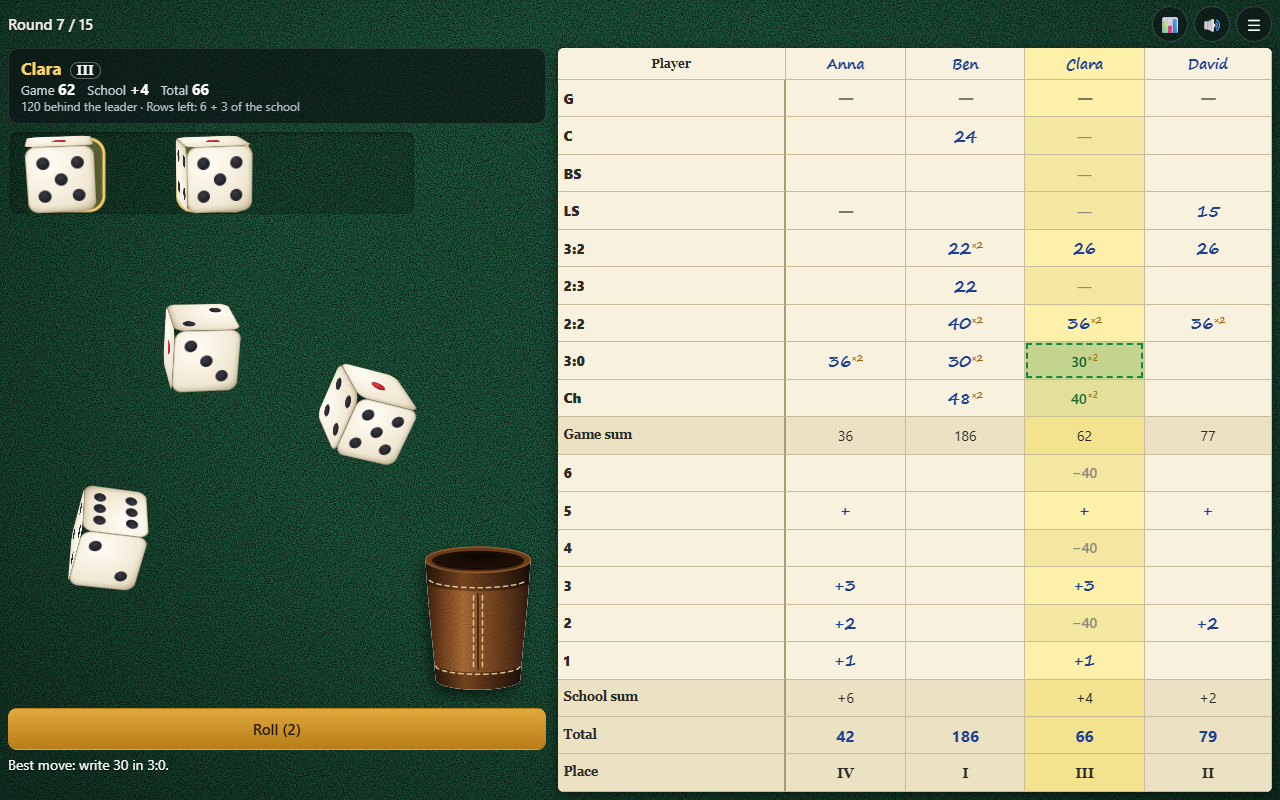
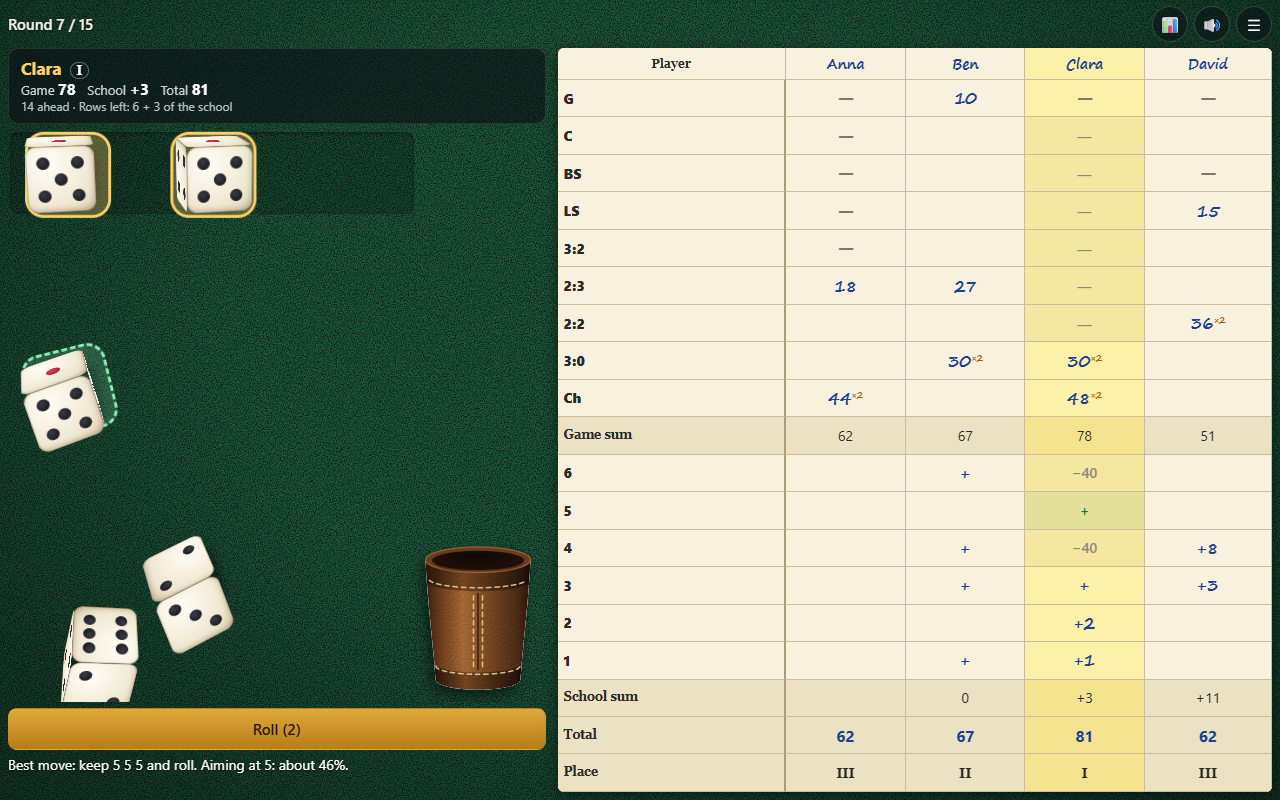
Yacht: the plate under a held die is wide enough to be seen all round it on a big screen

diff --git a/yacht/index.html b/yacht/index.html
@@ -12,7 +12,7 @@
 <link rel="manifest" href="manifest.webmanifest?v=1">
 <link rel="apple-touch-icon" href="apple-touch-icon.png?v=1">
 <meta name="theme-color" content="#1f5b3f">
-<link rel="stylesheet" href="styles.css?v=1">
+<link rel="stylesheet" href="styles.css?v=2">
 </head>
 <body>
 

diff --git a/yacht/styles.css b/yacht/styles.css
@@ -231,7 +231,7 @@ body[data-tex="marble"] {
 .die.held::before, .die.hintKeep::before {
   content: '';
   position: absolute;
-  inset: -7px;
+  inset: calc(var(--d) * -0.2);
   border-radius: 22%;
   transform: translateZ(calc(var(--d) / -2));
   pointer-events: none;
